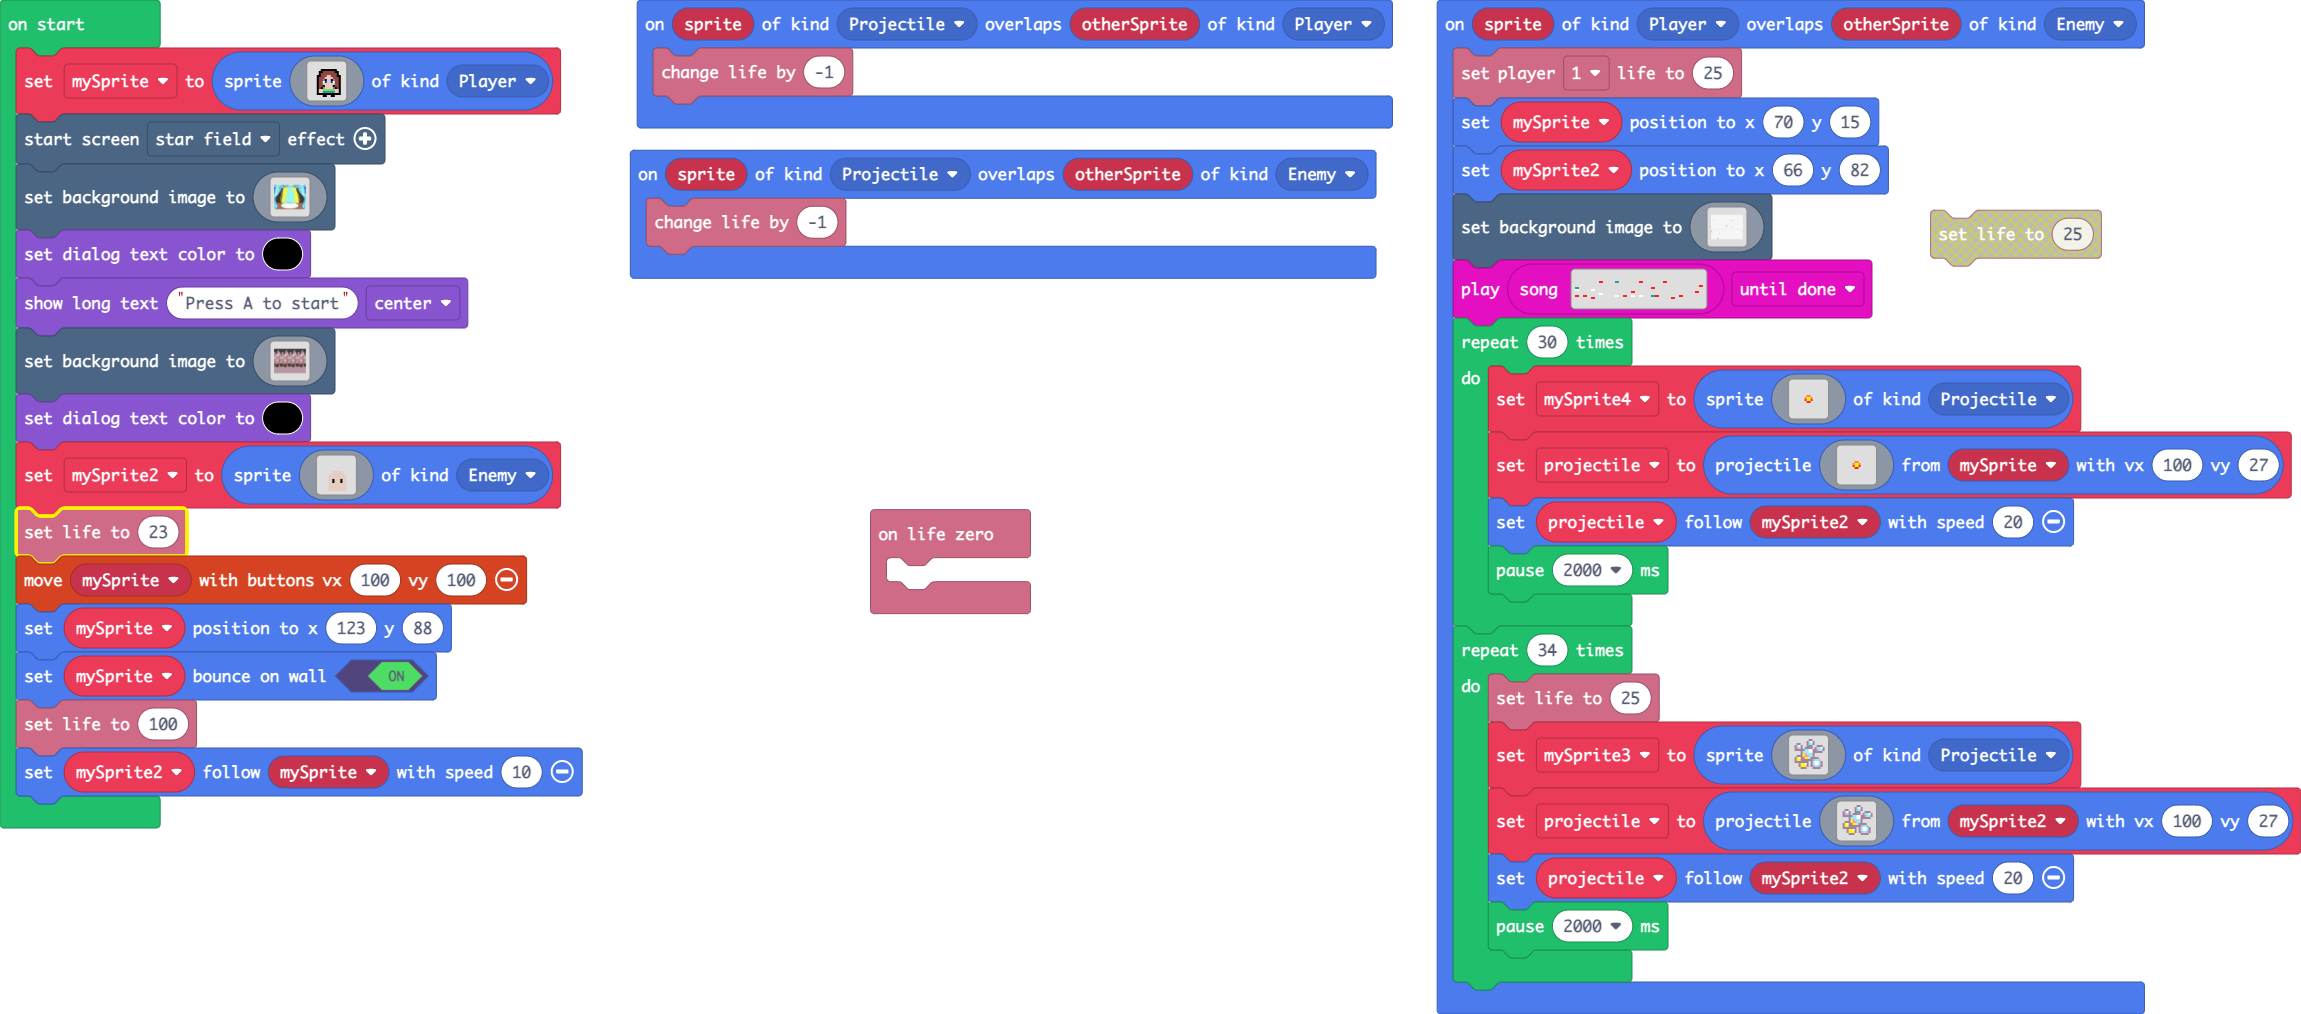
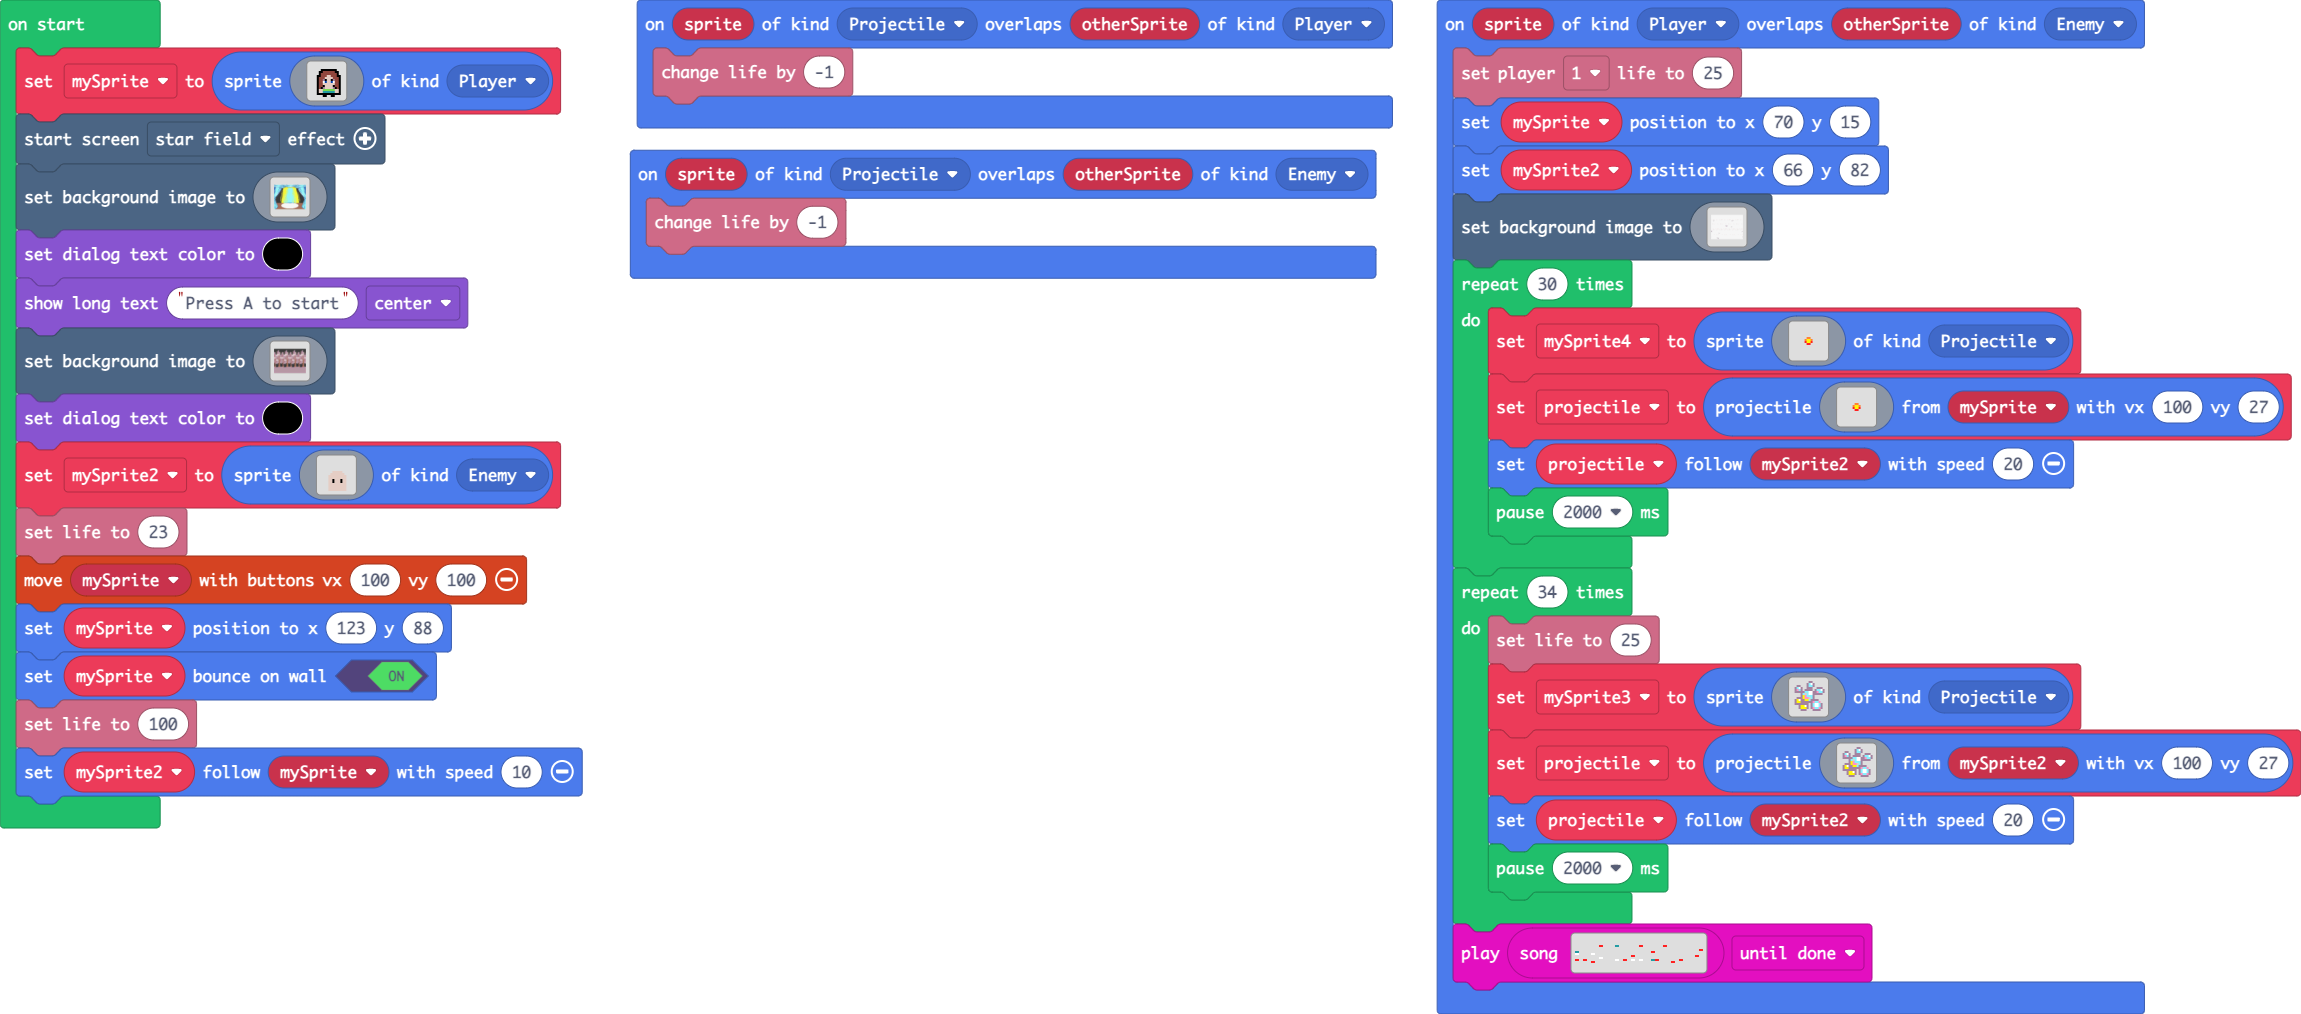
Update main.blocks, main.ts

Changed region(s): [[0.6171, 0.1834, 1.0, 0.9783], [0.3703, 0.4892, 0.4628, 0.6114], [0.0, 0.4892, 0.0926, 0.5197]]

diff --git a/main.ts b/main.ts
@@ -1,9 +1,6 @@
 sprites.onOverlap(SpriteKind.Projectile, SpriteKind.Player, function (sprite, otherSprite) {
     info.changeLifeBy(-1)
 })
-info.onLifeZero(function () {
-	
-})
 sprites.onOverlap(SpriteKind.Projectile, SpriteKind.Enemy, function (sprite, otherSprite) {
     info.changeLifeBy(-1)
 })
@@ -12,7 +9,6 @@ sprites.onOverlap(SpriteKind.Player, SpriteKind.Enemy, function (sprite, otherSp
     mySprite.setPosition(70, 15)
     mySprite2.setPosition(66, 82)
     scene.setBackgroundImage(assets.image`Road`)
-    music.play(music.createSong(assets.song`First_Song`), music.PlaybackMode.UntilDone)
     for (let index = 0; index < 30; index++) {
         mySprite4 = sprites.create(img`
             . . . . . . . . . . . . . . . . 
@@ -94,6 +90,7 @@ sprites.onOverlap(SpriteKind.Player, SpriteKind.Enemy, function (sprite, otherSp
         projectile.follow(mySprite2, 20)
         pause(2000)
     }
+    music.play(music.createSong(assets.song`First_Song`), music.PlaybackMode.UntilDone)
 })
 let mySprite3: Sprite = null
 let projectile: Sprite = null
